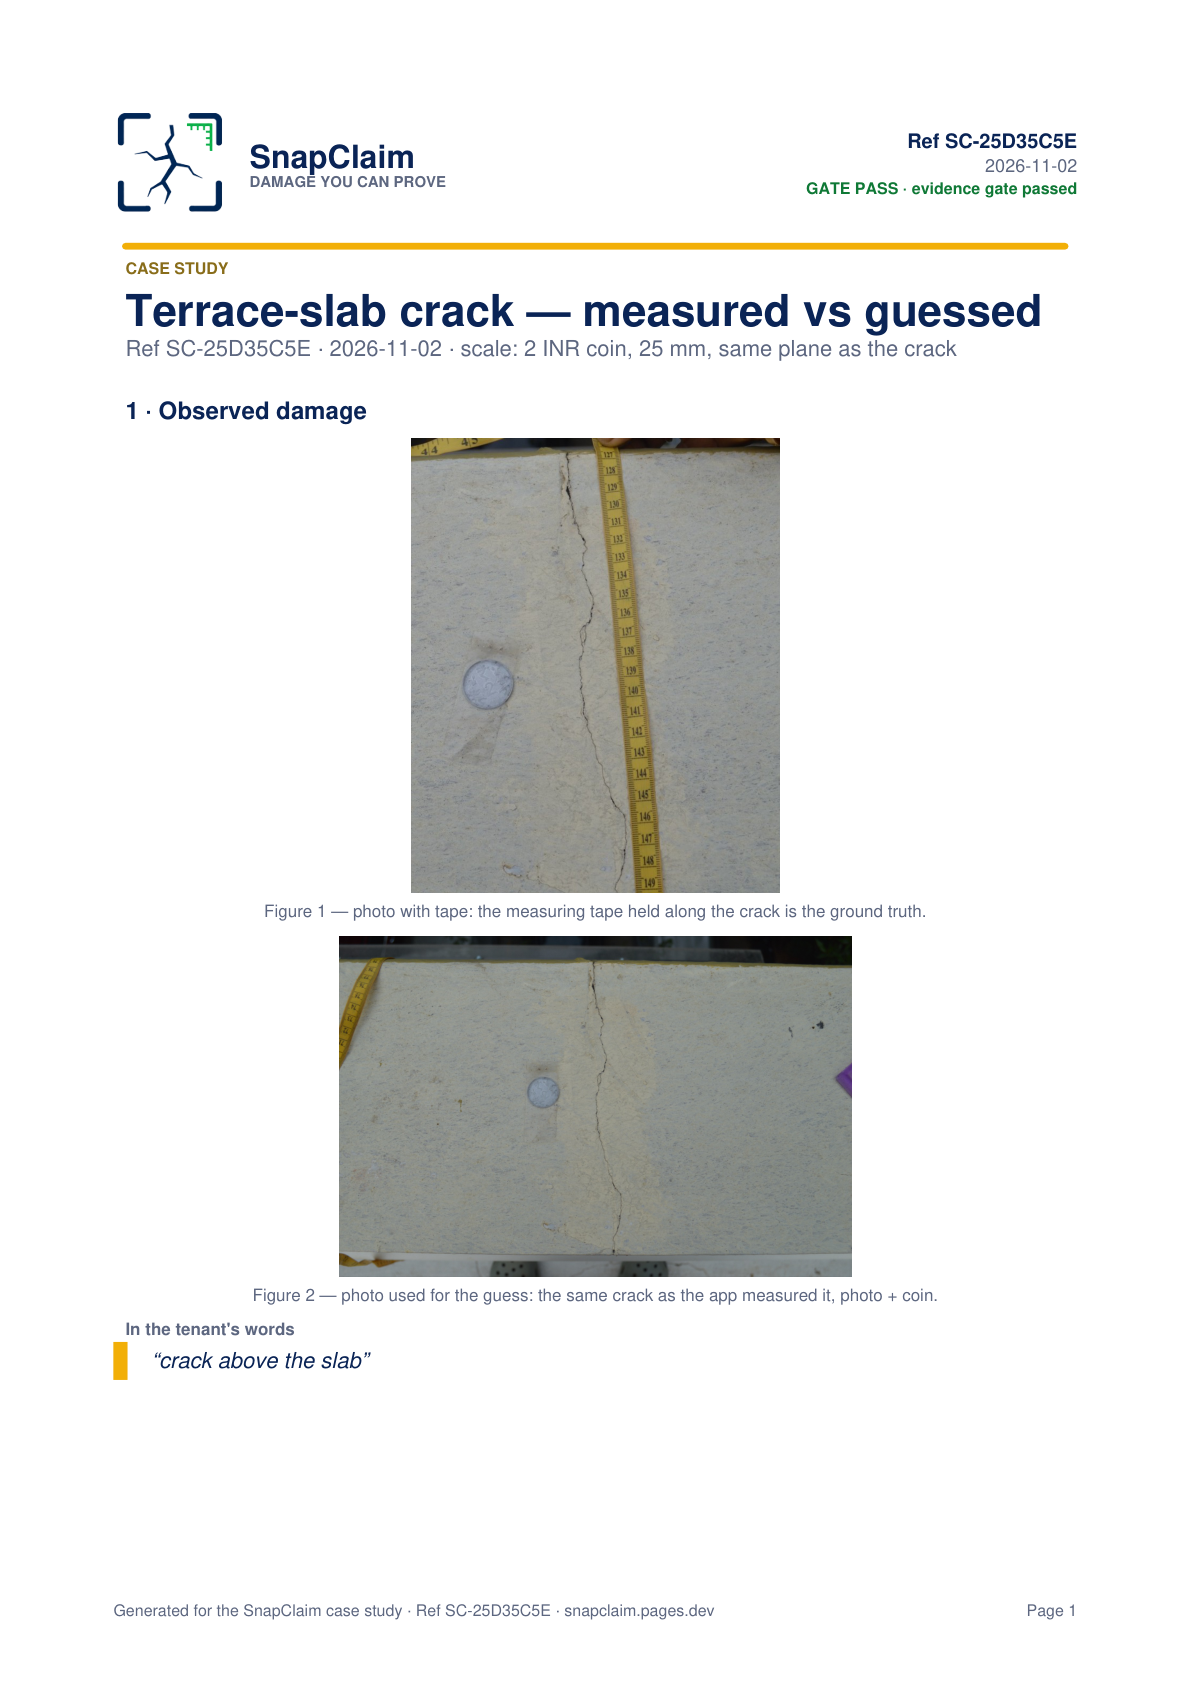
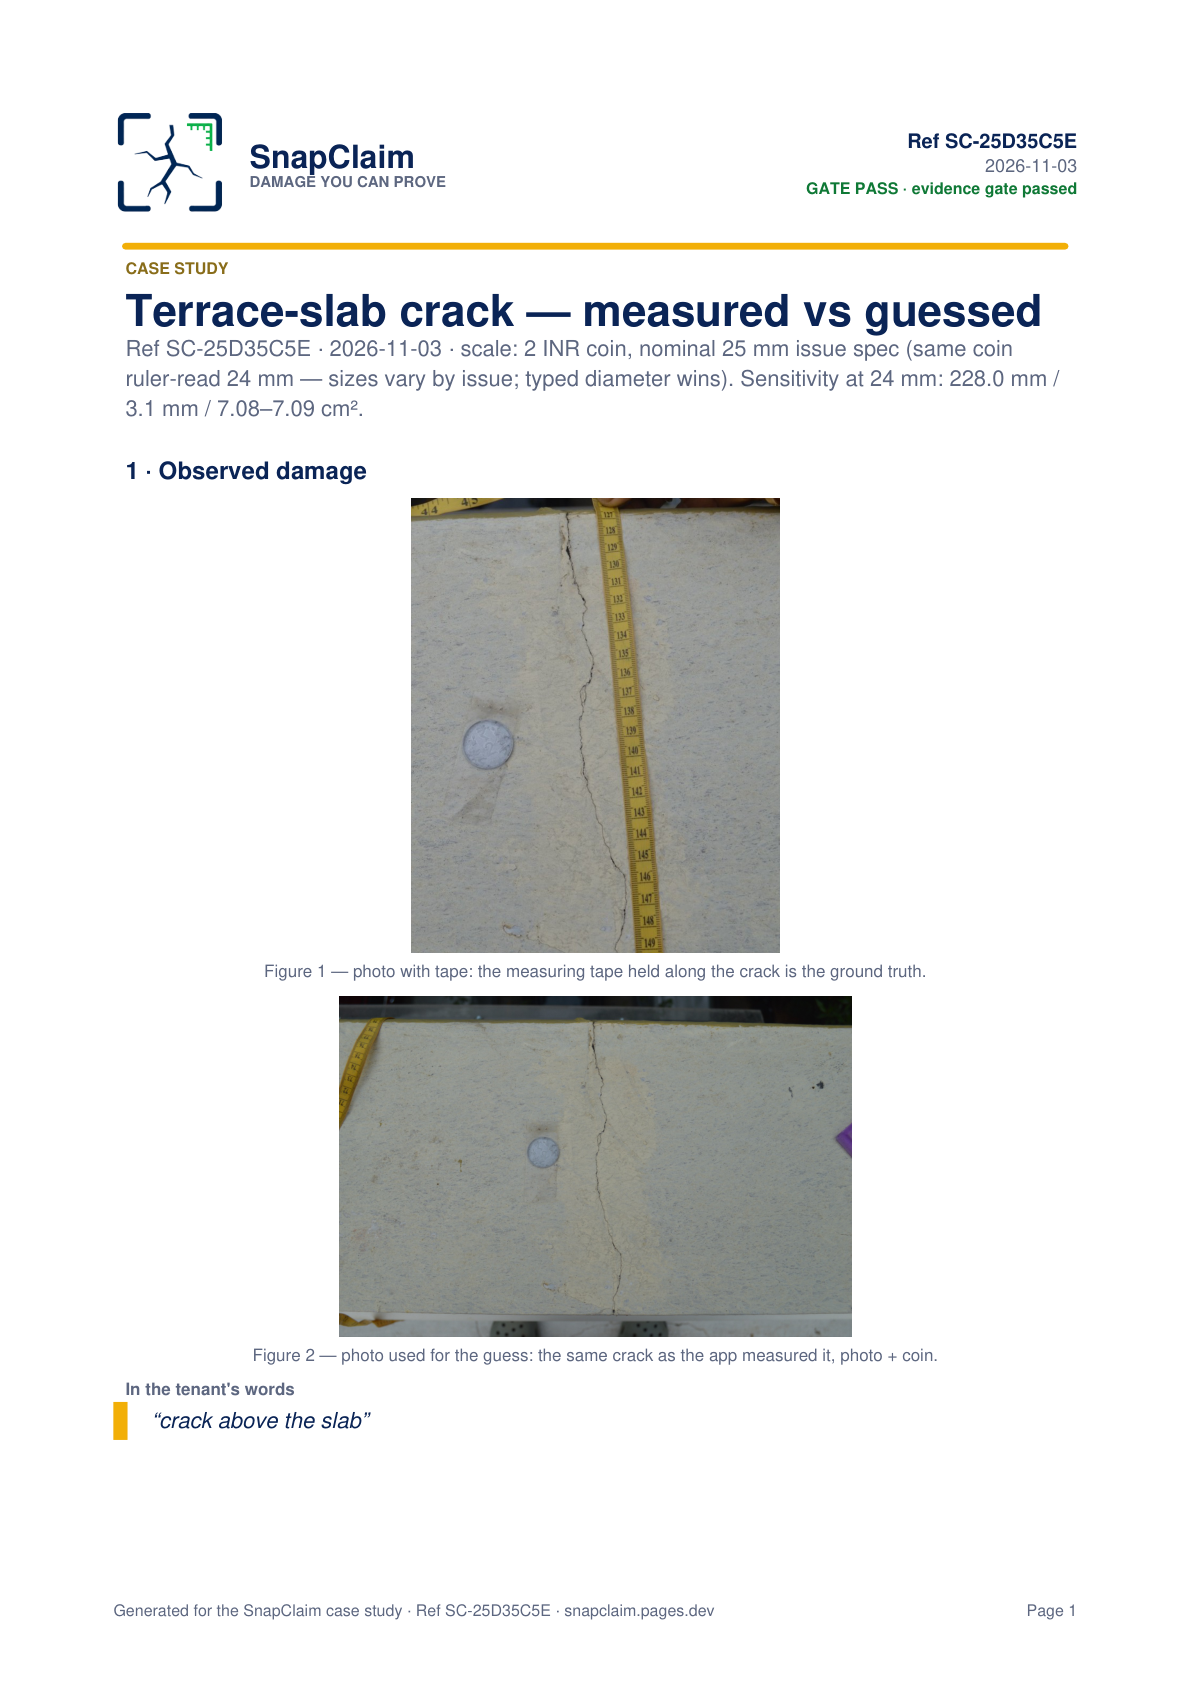
Case study: re-measured numbers — 237.5 vs thread 238.8, new report assets

diff --git a/react/index.html b/react/index.html
@@ -11,7 +11,7 @@
   <meta property="og:image" content="https://landing.snapclaim.pages.dev/assets/social-card.jpg">
   <meta property="og:image:width" content="1200">
   <meta property="og:image:height" content="630">
-  <meta property="og:image:alt" content="Terrace crack with taped coin and measuring tape: 218.5 mm measured vs a 227 mm tape">
+  <meta property="og:image:alt" content="Terrace crack with taped coin: 237.5 mm measured vs a 238.8 mm thread">
   <meta property="og:type" content="website">
   <meta property="og:site_name" content="SnapClaim">
   <meta property="og:url" content="https://landing.snapclaim.pages.dev/">
@@ -72,7 +72,7 @@
           <a class="btn" href="https://snapclaim.pages.dev">Try the live app</a>
           <a class="link-arrow" href="how">How it works <svg viewBox="0 0 16 16" width="16" height="16" aria-hidden="true"><path d="M3 8h10M9 4l4 4-4 4"/></svg></a>
         </div>
-        <p class="hero-proof">Proven on a real terrace: <b>218.5 mm</b> measured vs a <b>227 mm</b> tape — the photo-alone guess said <b>315 mm</b>.</p>
+        <p class="hero-proof">Proven on a real terrace: <b>237.5 mm</b> measured vs a <b>238.8 mm</b> thread — the photo-alone guess said <b>315 mm</b>.</p>
         <ul class="assurances">
           <li><svg viewBox="0 0 20 20" aria-hidden="true"><path d="M4 10.5l4 4 8-9"/></svg>Just a phone and a coin</li>
           <li><svg viewBox="0 0 20 20" aria-hidden="true"><path d="M4 10.5l4 4 8-9"/></svg>Describe it out loud, no typing</li>
@@ -82,12 +82,12 @@
       </div>
 
       <figure class="phone-stage">
-        <div class="phone" role="img" aria-label="SnapClaim on a phone: the Get the numbers screen — a terrace crack tagged Crack · 0.73% · 218.5 mm, marked significant">
+        <div class="phone" role="img" aria-label="SnapClaim on a phone: the Get the numbers screen — a terrace crack tagged Crack · 0.73% · 237.5 mm, marked significant">
           <div class="screen">
             <div class="eyebrow">04 / 06 <span class="dashes" aria-hidden="true"><i class="on"></i><i class="on"></i><i class="on"></i><i class="on"></i><i></i><i></i></span></div>
             <div class="shot">
               <img src="assets/terrace-case.jpg" alt="" width="690" height="789">
-              <span class="tag">Crack · 0.73% · 218.5 mm</span>
+              <span class="tag">Crack · 0.73% · 237.5 mm</span>
               <span class="chip"><i aria-hidden="true"></i>Measured</span>
             </div>
             <div class="result">
@@ -98,7 +98,7 @@
               <p class="found">Crack found</p>
               <dl class="measures">
                 <div><dt>Of the wall</dt><dd>0.73%</dd></div>
-                <div><dt>Length</dt><dd>218.5 mm</dd></div>
+                <div><dt>Length</dt><dd>237.5 mm</dd></div>
                 <div><dt>Region</dt><dd>1</dd></div>
               </dl>
               <div class="sevbar"><span>Significant</span><small>severity band</small></div>
@@ -106,7 +106,7 @@
             </div>
           </div>
         </div>
-        <figcaption>Real measurement: terrace slab, 218.5 mm vs a 227 mm tape. <a href="#case-study">See the case</a>.</figcaption>
+        <figcaption>Real measurement: terrace slab, 237.5 mm vs a 238.8 mm thread. <a href="#case-study">See the case</a>.</figcaption>
       </figure>
     </section>
 

diff --git a/react/public/app.js b/react/public/app.js
@@ -138,7 +138,7 @@ if (toggle) {
         }
         const st = document.createElement("td");
         const pill = document.createElement("span");
-        pill.className = "pill pill-ok";
+        pill.className = String(r.status || "").toLowerCase() === "confirmed" ? "pill pill-ok" : "pill";
         pill.textContent = String(r.status || "Confirmed");
         st.appendChild(pill);
         tr.appendChild(st);
